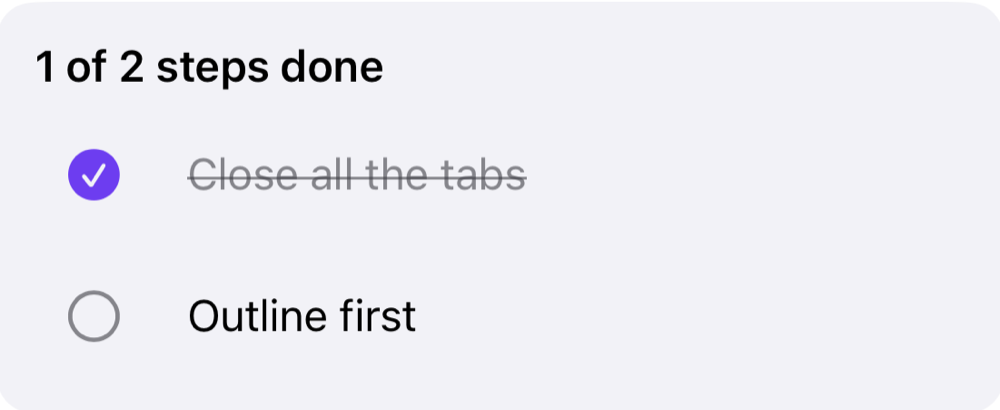
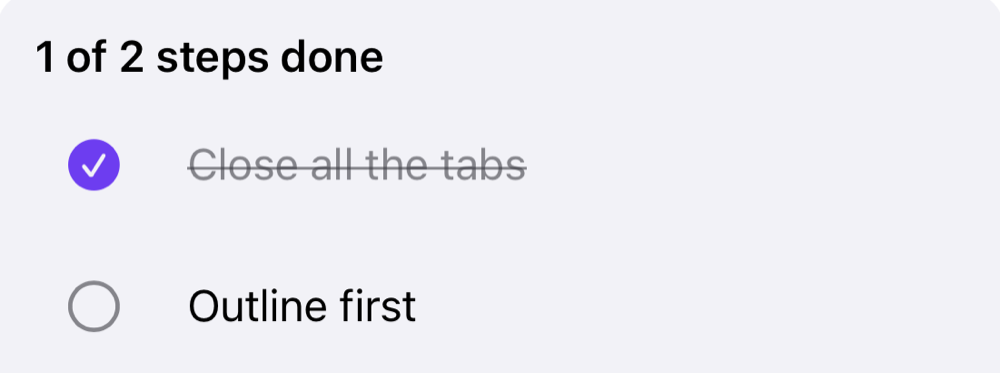
The site catches up with low-energy days
A section of its own — 'Some days are smaller' — with the switch
photographed as it reads when it is on, and the three guarantees stated
plainly: a timed thing is never hidden, The Plan keeps the whole day,
and the meter still counts what the day costs. A lens, not a lie.

Every screenshot recaptured, because Now changed shape: the hero is the
current five-tab Now with the switch below the meter, and the focus,
steps, meter and plan crops were all taken from the old layout. The
meter crop had fallen out of the page entirely when the rows were
reshuffled — it is back in the row whose words describe it, and it now
carries the app's kindest sentence. Declared image dimensions are
generated from the files themselves so nothing shifts on load. One new
FAQ entry, with the FAQPage markup regenerated from the accordions.

diff --git a/neuroutine/index.html b/neuroutine/index.html
@@ -71,7 +71,7 @@
       <div class="media">
         <div class="phone">
           <img src="img/today.png" width="552" height="1200"
-               alt="NeuRoutine's Now tab. A focus card reads: Now — Deep work block, a Done button, and then: Morning walk. Below it a card reads 1 of 2 steps done with two tickable steps, then a progress and energy bar reading 0 of 3 done, 2 energy left, then a capture field. The tab bar reads Now, The Plan, Inbox, Energy, Settings.">
+               alt="NeuRoutine's Now tab. A focus card reads: Now — Deep work block, a Done button, and then: Make the bed. Below it a card reads 1 of 2 steps done with two tickable steps; a progress and energy bar reading 0 of 3 done, 17 of 13 energy, with the note that this is a fact about the day and not about you; a Low energy day switch; and a capture field. The tab bar reads Now, The Plan, Inbox, Energy, Settings.">
         </div>
       </div>
     </section>
@@ -87,10 +87,12 @@
         already carried, always against the same fixed 13.</p>
       </div>
       <div class="shots media">
-        <img class="shot" src="img/focus.png" width="1000" height="340"
-             alt="The focus card: Now — Deep work block, with a Done button and then: Morning walk.">
-        <img class="shot" src="img/steps.png" width="1000" height="411" loading="lazy"
+        <img class="shot" src="img/focus.png" width="1000" height="341"
+             alt="The focus card: Now — Deep work block, with a Done button and then: Make the bed.">
+        <img class="shot" src="img/steps.png" width="1000" height="373" loading="lazy"
              alt="The steps card: 1 of 2 steps done, with Close all the tabs ticked off and Outline first still to do.">
+        <img class="shot" src="img/meter.png" width="1000" height="365" loading="lazy"
+             alt="The progress and energy card: a single bar, the words 0 of 3 done and 17 of 13 energy, and the sentence: this day asks for more than 13 energy, that is a fact about the day, not about you.">
       </div>
     </section>
 
@@ -126,8 +128,8 @@
         pick — a fact about where the energy went, never a share to balance.</p>
       </div>
       <div class="shots media">
-        <img class="shot" src="img/plan.png" width="1000" height="678" loading="lazy"
-             alt="A day in The Plan: Deep work block with a repeat glyph, 8 energy, 1 of 2 steps and the Work category; Morning walk at 2 energy and Water the plants at 1 energy, both filed under Todo.">
+        <img class="shot" src="img/plan.png" width="1000" height="635" loading="lazy"
+             alt="A day in The Plan: Deep work block with a repeat glyph, 8 energy, 1 of 2 steps and the Work category; Make the bed at 1 energy and Sort the big pile of post at 8 energy, both filed under Todo.">
         <img class="shot" src="img/categories.png" width="1000" height="334" loading="lazy"
              alt="The Where it went card: what each category carried over the last 14 days — Work 88, Todo 22.">
       </div>
@@ -147,6 +149,25 @@
         <p>Plain words, one per line, nothing hidden behind a swipe, and every
         one of them reversible. A day that ends with the list let go of says
         so honestly: "that is a decision, not a failure."</p>
+      </div>
+    </section>
+
+    <section class="row">
+      <div class="shots media">
+        <img class="shot" src="img/lowenergy.png" width="1000" height="181" loading="lazy"
+             alt="The Low energy day switch, turned on, reading: on until tomorrow, 2 things are waiting in The Plan.">
+      </div>
+      <div>
+        <h2>Some days are smaller</h2>
+        <p>One switch on Now says <em>today is a low-energy day</em>, and Now
+        narrows to what you could actually manage — you decide where that line
+        sits, on the same 0-to-13 scale, plus whether unsized things and
+        anything marked High stay regardless.</p>
+        <p>It is on until tomorrow and then gone, with nothing to remember to
+        undo. Anything with a time on it always stays, because a 14:00
+        appointment happens whether the day is heavy or not. The Plan keeps
+        the whole day, the meter still counts what the day costs, and nothing
+        is completed, skipped or moved. It is a lens, not a lie.</p>
       </div>
     </section>
 

diff --git a/neuroutine/support.html b/neuroutine/support.html
@@ -101,6 +101,14 @@
   },
   {
    "@type": "Question",
+   "name": "What does \"low energy day\" do?",
+   "acceptedAnswer": {
+    "@type": "Answer",
+    "text": "It is you telling the app how today is, and the app answering with a shorter list. Flip the switch on Now and Now shows only what you could manage; you set where that line sits in Settings → Low energy days — keep things costing at most a number you choose, and whether unsized things and anything marked High stay regardless. It is on until tomorrow and then gone, with nothing to remember to undo. Three things it never does: hide anything with a time on it (a 14:00 appointment happens whether the day is heavy or not), change The Plan (which always shows the whole day), or change what the day costs — the meter and the Energy tab do not move, because saying the day is hard does not make it cheaper. Nothing is completed, skipped or moved."
+   }
+  },
+  {
+   "@type": "Question",
    "name": "Can I edit entries in Apple's Calendar and Reminders?",
    "acceptedAnswer": {
     "@type": "Answer",
@@ -261,6 +269,25 @@
         anchor its whole series counts from — moving it would move every
         occurrence.) Plain buttons, not a hidden swipe, and every one of them
         can be undone.</p>
+      </div>
+    </details>
+
+    <details class="qa" id="lowenergy">
+      <summary>What does "low energy day" do?</summary>
+      <div class="answer">
+        <p>It is you telling the app how today is, and the app answering with
+        a shorter list. Flip the switch on Now and Now shows only what you
+        could manage; you set where that line sits in
+        <span class="muted">Settings → Low energy days</span> — keep things
+        costing at most a number you choose, and whether unsized things and
+        anything marked High stay regardless.</p>
+        <p>It is on until tomorrow and then gone, with nothing to remember to
+        undo. Three things it never does: hide anything with a time on it (a
+        14:00 appointment happens whether the day is heavy or not), change
+        The Plan (which always shows the whole day), or change what the day
+        costs — the meter and the Energy tab do not move, because saying the
+        day is hard does not make it cheaper. Nothing is completed, skipped or
+        moved.</p>
       </div>
     </details>
 
